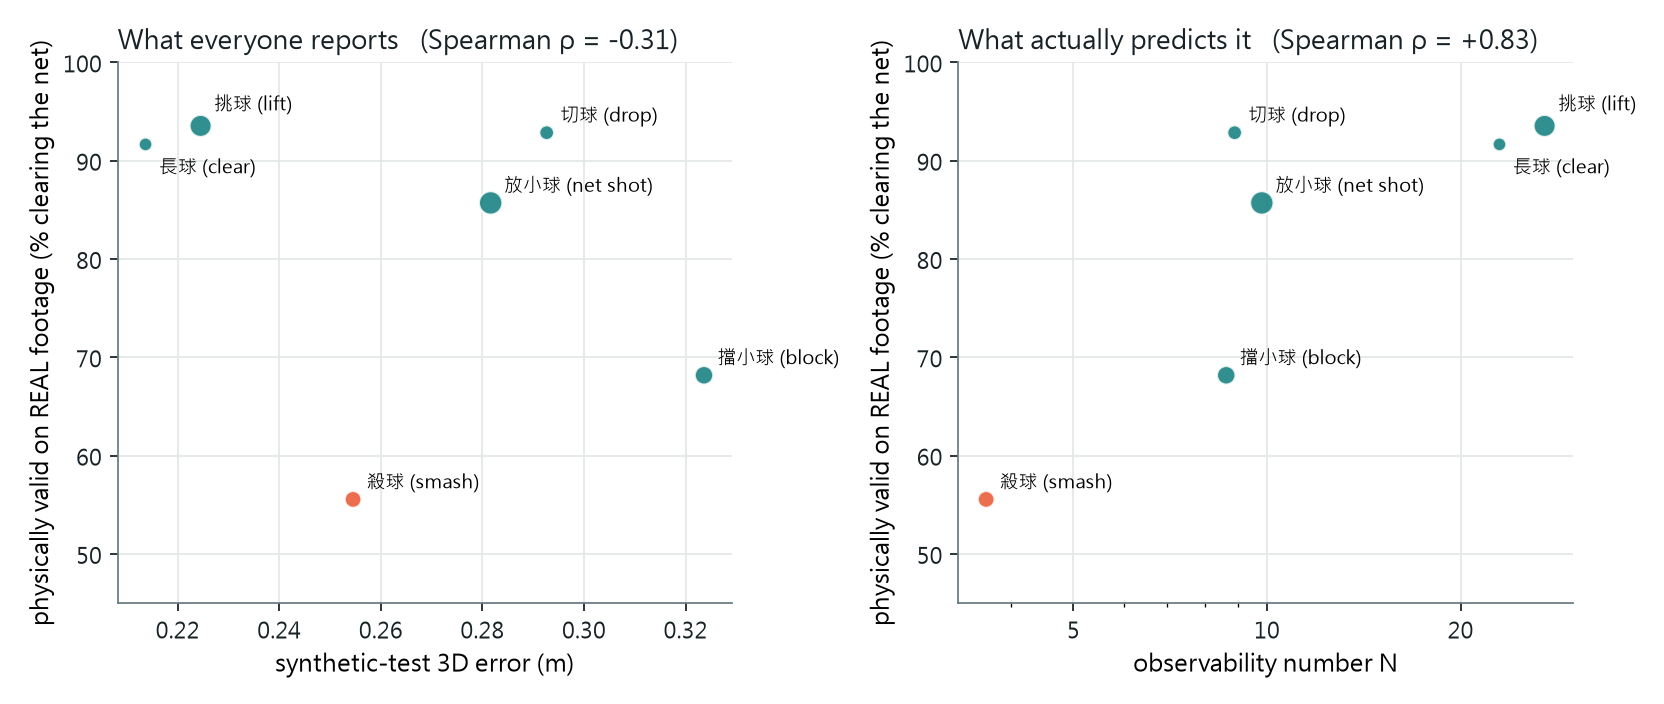
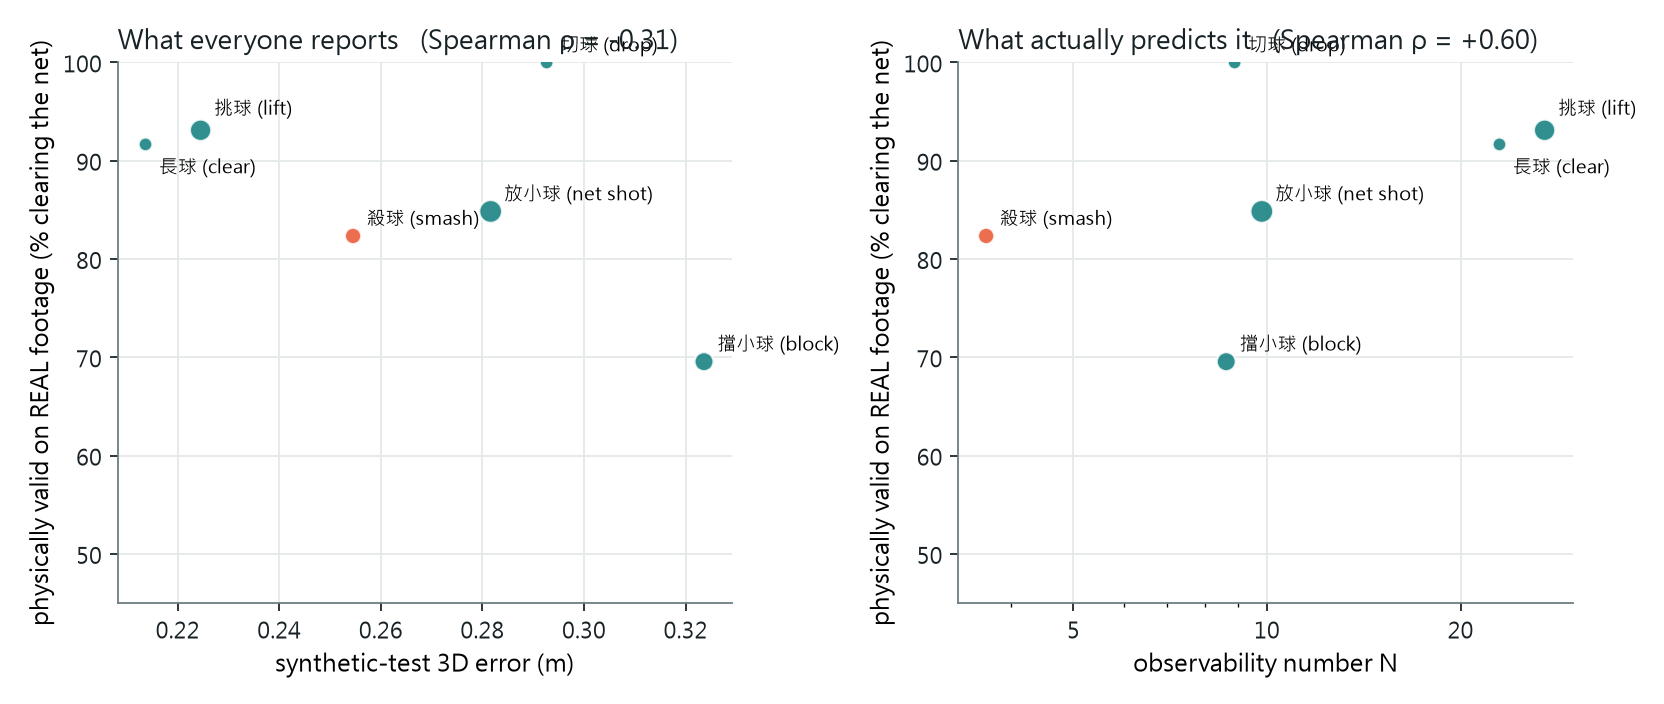
Add MonoTrack comparison and corrected real-footage evaluation

diff --git a/index.html b/index.html
@@ -74,14 +74,14 @@ pre{font-family:var(--mono);font-size:13px;background:var(--soft);padding:14px 1
 <h2 style="border:0;margin-top:28px">Abstract</h2>
 <div class="abstract">
 <p>Recovering the 3D flight of a shuttlecock from a single broadcast camera is attractive and, for badminton, unsolved: no public 3D ground truth exists, and every published method validates on real footage with 2D reprojection error alone. We show that this practice cannot distinguish a correct reconstruction from a wrong one. On synthetic strokes with known 3D, solutions whose 2D reprojection differs by only <b>0.07–0.20&nbsp;px</b> differ in true 3D error by up to <b>46×</b> for smashes.</p>
-<p>We derive a per-stroke <b>observability number N</b> — the departure of the image track from anything an unaccelerated 3D motion could produce, in units of tracker noise — that needs no 3D truth and predicts the Cramér–Rao bound on 3D error (<b>CRLB ∝ N<sup>−0.98</sup></b>, R²&nbsp;=&nbsp;0.83, partial ρ&nbsp;=&nbsp;−0.59 after controlling for track length). A learned 2D→3D lifter trained on 78,702 synthetic strokes anchored to real annotations and rendered through <b>ten cameras calibrated from real broadcasts</b> reaches 0.24&nbsp;m median error on held-out synthetic data — yet <b>beats the unbiased bound by up to 5.5× exactly where N is lowest</b>, i.e. where the answer comes from the prior rather than the image. On real TrackNetV3-tracked rallies its error rises to <b>0.87&nbsp;m</b> and physical validity falls from 98.9% to <b>79.9%</b>; per stroke type, that validity is predicted by N (Spearman&nbsp;+0.83) but not by the synthetic test error (−0.31).</p>
+<p>We derive a per-stroke <b>observability number N</b> — the departure of the image track from anything an unaccelerated 3D motion could produce, in units of tracker noise — that needs no 3D truth and predicts the Cramér–Rao bound on 3D error (<b>CRLB ∝ N<sup>−0.98</sup></b>, R²&nbsp;=&nbsp;0.83, partial ρ&nbsp;=&nbsp;−0.59 after controlling for track length). A learned 2D→3D lifter trained on 78,702 synthetic strokes anchored to real annotations and rendered through <b>ten cameras calibrated from real broadcasts</b> reaches 0.24&nbsp;m median error on held-out synthetic data — yet <b>beats the unbiased bound by up to 5.5× exactly where N is lowest</b>, i.e. where the answer comes from the prior rather than the image. On real TrackNetV3-tracked rallies its error rises to <b>0.76&nbsp;m</b> and physical validity falls from 98.9% to <b>85.0%</b>; per stroke type, that validity tracks N (Spearman&nbsp;+0.60) and not the synthetic test error (−0.31). A faithful re-implementation of MonoTrack's per-shot physics fitting on the same tracks and cameras reaches 1.02&nbsp;m median on synthetic strokes and 55.6% validity on real footage; it behaves like the unbiased estimator the bound describes, while the lifter's advantage comes from the prior.</p>
 </div>
 
 <div class="kv">
   <div><b>46×</b><span>3D-error spread hidden inside 0.2&nbsp;px of 2D reprojection (smash)</span></div>
   <div><b>N<sup>−0.98</sup></b><span>Cramér–Rao bound vs. the image-only observability number</span></div>
   <div><b>10</b><span>broadcast cameras calibrated from the court and net alone</span></div>
-  <div><b>0.24 → 0.87 m</b><span>lifter error, synthetic test → real footage</span></div>
+  <div><b>0.24 → 0.76 m</b><span>lifter error, synthetic test → real footage</span></div>
 </div>
 
 <h2 id="motivation">1. The evaluation problem</h2>
@@ -141,29 +141,49 @@ pre{font-family:var(--mono);font-size:13px;background:var(--soft);padding:14px 1
 <p>Real rallies were tracked with TrackNetV3 (best checkpoint, 0.940 validation accuracy; detection 9–92% per venue) and lifted with the same model through the same calibrated cameras. There is no 3D truth, so the reconstruction is scored against what the annotation and physics do know: every stroke must clear the net, and both ends of every stroke carry an annotated court position — a real horizontal anchor the model never sees.</p>
 <div class="kv">
   <div><b>177</b><span>real strokes reconstructed, 8 matches</span></div>
-  <div><b>98.9% → 79.9%</b><span>physically valid (clears the net), synthetic → real</span></div>
-  <div><b>0.24 → 0.87 m</b><span>median position error, synthetic → real (endpoint)</span></div>
-  <div><b>23.6 px</b><span>real endpoint error, normalised by local depth resolution; calibration is 1.7&nbsp;px</span></div>
+  <div><b>98.9% → 85.0%</b><span>physically valid (clears the net), synthetic → real</span></div>
+  <div><b>0.24 → 0.76 m</b><span>median position error, synthetic → real (endpoint; p90 3.71&nbsp;m)</span></div>
+  <div><b>3–7%</b><span>share of the endpoint error attributable to calibration; the rest is depth</span></div>
 </div>
 <figure>
   <img src="assets/fig_sim2real.png" alt="Per stroke type: real physical validity against synthetic test error and against N">
-  <figcaption><b>Fig. 6 — What predicts real-world validity.</b> Per stroke type, the fraction of real reconstructions that clear the net against (left) the synthetic-test error everyone reports, Spearman −0.31, and (right) the observability number N, Spearman +0.83. The smash looks as good as a clear on the synthetic test (0.26 vs 0.21&nbsp;m) and is the least valid stroke on real footage (55.6% vs 93.5%). Raw endpoint errors per type are confounded by where the stroke ends — the court resolves at 8.8&nbsp;px/m near the far baseline and 110&nbsp;px/m near the camera — so net clearance is the per-type metric here.</figcaption>
+  <figcaption><b>Fig. 6 — What predicts real-world validity.</b> Per stroke type, the fraction of real reconstructions that clear the net against (left) the synthetic-test error everyone reports, Spearman −0.31, and (right) the observability number N, Spearman +0.60. The smash looks as good as a clear on the synthetic test (0.26 vs 0.21&nbsp;m) yet sits well below the lifts on real footage (82.4% vs 93.1%); the block is the least valid (69.6%). With six stroke types of 12–33 strokes each, these correlations are directional rather than decisive. Raw endpoint errors per type are confounded by where the stroke ends — the court resolves at 8.8&nbsp;px/m near the far baseline and 110&nbsp;px/m near the camera — so net clearance is the per-type metric here.</figcaption>
 </figure>
 <div class="tw"><table>
 <tr><th>stroke type</th><th>N</th><th>CRLB (m)</th><th>synthetic test (m)</th><th>real: clears net</th></tr>
-<tr><td>殺球 smash</td><td>3.7</td><td>1.232</td><td>0.255</td><td class="bad">55.6%</td></tr>
-<tr><td>擋小球 block</td><td>8.6</td><td>0.583</td><td>0.324</td><td>68.2%</td></tr>
-<tr><td>放小球 net shot</td><td>9.8</td><td>0.619</td><td>0.282</td><td>85.7%</td></tr>
-<tr><td>切球 drop</td><td>8.9</td><td>0.458</td><td>0.293</td><td>92.9%</td></tr>
+<tr><td>殺球 smash</td><td>3.7</td><td>1.232</td><td>0.255</td><td>82.4%</td></tr>
+<tr><td>擋小球 block</td><td>8.6</td><td>0.583</td><td>0.324</td><td class="bad">69.6%</td></tr>
+<tr><td>放小球 net shot</td><td>9.8</td><td>0.619</td><td>0.282</td><td>84.8%</td></tr>
+<tr><td>切球 drop</td><td>8.9</td><td>0.458</td><td>0.293</td><td class="good">100.0%</td></tr>
 <tr><td>長球 clear</td><td>23.0</td><td>0.160</td><td>0.214</td><td>91.7%</td></tr>
-<tr><td>挑球 lift</td><td>27.0</td><td>0.183</td><td>0.225</td><td class="good">93.5%</td></tr>
+<tr><td>挑球 lift</td><td>27.0</td><td>0.183</td><td>0.225</td><td class="good">93.1%</td></tr>
 </table></div>
-<p class="note">Calibration is not the limiting term. At the endpoint the depth ambiguity vanishes (the shuttle is on a known plane), so calibration becomes the leading camera-side error — and it still inflates the endpoint error by only 3–7%. In pixel-equivalent terms the reconstruction error (23.6&nbsp;px median) is fourteen times the calibration residual (1.7&nbsp;px).</p>
+<p class="note">Calibration is not the limiting term. At the endpoint the depth ambiguity vanishes (the shuttle is on a known plane), so calibration becomes the leading camera-side error — and it still inflates the endpoint error by only 3–7%. The endpoint error is set by depth, not by the camera: 0.76&nbsp;m is an order of magnitude more than 1.7&nbsp;px of calibration error can produce anywhere on the court.</p>
 
 <h2 id="monotrack">7. Comparison with MonoTrack-style physics fitting</h2>
 <p>MonoTrack reconstructs each shot by fitting launch position, velocity and a per-shot drag coefficient under forward-Euler quadratic drag, minimising an L<sub>6</sub> reprojection loss with SLSQP. We re-implemented that step from its public code and ran it on the same 2D tracks and the same calibrated cameras as the lifter — the comparison the paper needs is the 3D-from-2D step on identical input. Deviations from the original (no hit detector, so each annotated stroke is one shot; the receiving-player drift term is dropped) are documented in the baseline's source.</p>
-<!-- MONOTRACK_RESULTS -->
-<p class="note" id="mt-pending">Results pending — the comparison is running.</p>
+<h3>Held-out synthetic strokes (true 3D known, n = 400)</h3>
+<div class="tw"><table>
+<tr><th>stroke type</th><th>n</th><th>lifter (m)</th><th>MonoTrack-style fit (m)</th><th>ratio</th></tr>
+<tr><td>長球 clear</td><td>22</td><td>0.140</td><td>0.277</td><td>2.0×</td></tr>
+<tr><td>挑球 lift</td><td>97</td><td>0.202</td><td>0.759</td><td>3.8×</td></tr>
+<tr><td>殺球 smash</td><td>43</td><td>0.246</td><td class="bad">2.309</td><td>9.4×</td></tr>
+<tr><td>切球 drop</td><td>23</td><td>0.251</td><td>0.847</td><td>3.4×</td></tr>
+<tr><td>放小球 net shot</td><td>82</td><td>0.284</td><td>1.086</td><td>3.8×</td></tr>
+<tr><td>擋小球 block</td><td>55</td><td>0.340</td><td>0.968</td><td>2.8×</td></tr>
+<tr><td><b>all</b> (median / mean)</td><td>400</td><td><b>0.254</b> / 0.365</td><td><b>1.018</b> / 1.365</td><td>4.0×</td></tr>
+</table></div>
+<p>The physics fit is worst exactly where N is lowest — on smashes its 2.31&nbsp;m sits <em>above</em> the 1.23&nbsp;m Cramér–Rao bound, as an unbiased estimator must — while the lifter's 0.25&nbsp;m sits below the bound. The two methods bracket the bound from opposite sides: the comparison is not evidence that the lifter extracts more from the image, but that it brings a prior the physics fit does not have.</p>
+<h3>Real tracked strokes (n = 177, no 3D truth)</h3>
+<div class="tw"><table>
+<tr><th>metric</th><th>lifter</th><th>MonoTrack-style fit</th></tr>
+<tr><td>clears the net</td><td class="good">85.0%</td><td class="bad">55.6%</td></tr>
+<tr><td>median net clearance</td><td>+0.28 m</td><td>+0.10 m</td></tr>
+<tr><td>endpoint error vs annotation, median / p90</td><td>0.76 / 3.71 m</td><td>3.30 / 13.27 m</td></tr>
+<tr><td>start error vs annotation, median</td><td>1.00 m</td><td>3.07 m</td></tr>
+<tr><td>net clearance by type — smash / drop / net shot / block / clear / lift</td><td>82 / 100 / 85 / 70 / 92 / 93 %</td><td>40 / 25 / 45 / 50 / 83 / 100 %</td></tr>
+</table></div>
+<p class="note">Both methods consumed identical TrackNetV3 tracks and identical calibrated cameras. The baseline reproduces MonoTrack's reconstruction step (per-shot launch state and drag coefficient, forward-Euler quadratic drag, L<sub>6</sub> reprojection loss, SLSQP) but not its hit detector or receiving-player term, so each annotated stroke is fitted as one shot; MonoTrack's full pipeline may do better on its own segmentation. Its real-footage numbers are consistent with what its authors reported being unable to measure.</p>
 
 <h2 id="viewer-section">8. Interactive 3D model</h2>
 <p>The calibrated court, net, broadcast camera frustum and forty reconstructed trajectories, exported from Blender. Drag to orbit, scroll to zoom.</p>
@@ -177,7 +197,7 @@ pre{font-family:var(--mono);font-size:13px;background:var(--soft);padding:14px 1
 </div>
 
 <h2 id="limits">9. Limitations</h2>
-<p>Real-footage validation rests on proxies: net clearance and annotated court positions at stroke ends. Rally-final floor landings — the one true 3D anchor — were unusable because the tracker loses the shuttle as it lands (0 of 10 candidates with ≥5 detections); tracking more of the 1,936 available rallies is the direct fix. Tracker coverage limited the real set to 177 of 9,875 candidate strokes. The self-calibration residual sits at 1.65&nbsp;px, decomposed as 1.06&nbsp;px of court-detection inconsistency plus 0.61&nbsp;px from reconciling the net; lens distortion, line placement and camera drift were each tested and ruled out (lines straight to 0.12&nbsp;px, drift 0.04&nbsp;px, line offsets 1.2&nbsp;mm median). The net tape sits a measured 15&nbsp;mm below the nominal cord height, consistently across venues.</p>
+<p>Real-footage validation rests on proxies: net clearance and annotated court positions at stroke ends. Rally-final floor landings — the one true 3D anchor — were unusable because the tracker loses the shuttle as it lands (0 of 10 candidates with ≥5 detections); tracking more of the 1,936 available rallies is the direct fix. Tracker coverage limited the real set to 177 of 9,875 candidate strokes. An earlier evaluation pass packed tracked frames contiguously instead of placing them at their true frame indices as in training; it reported 79.9% validity and 0.87&nbsp;m, the corrected pass reported here gives 85.0% and 0.76&nbsp;m — both are in the project logs, and the difference is the packing, not the model. The self-calibration residual sits at 1.65&nbsp;px, decomposed as 1.06&nbsp;px of court-detection inconsistency plus 0.61&nbsp;px from reconciling the net; lens distortion, line placement and camera drift were each tested and ruled out (lines straight to 0.12&nbsp;px, drift 0.04&nbsp;px, line offsets 1.2&nbsp;mm median). The net tape sits a measured 15&nbsp;mm below the nominal cord height, consistently across venues.</p>
 
 <h2 id="cite">BibTeX</h2>
 <pre>@misc{chang2026shuttle3d,
